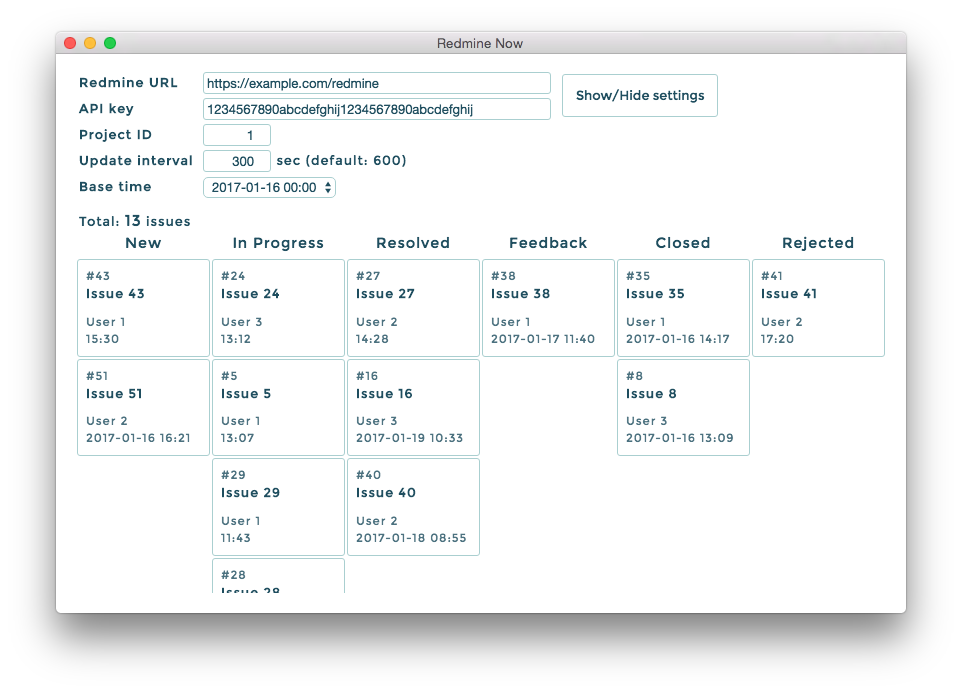
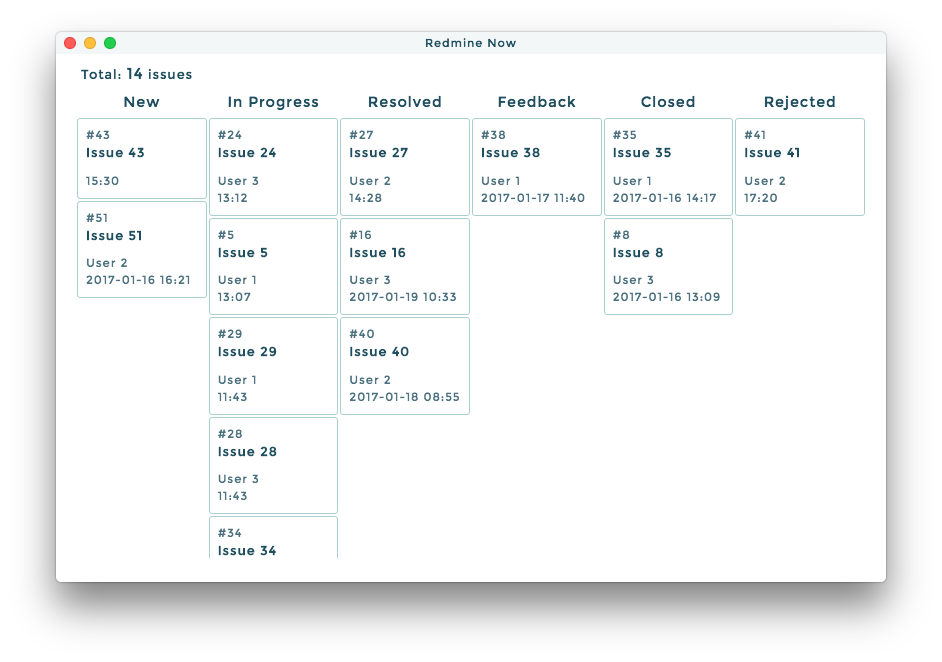
v0.3.0

diff --git a/README.md b/README.md
@@ -10,7 +10,17 @@
 
 ---
 
-![Screenshot](examples/redmine-now.png?raw=true)
+![Screenshot Main](examples/redmine-now.png?raw=true)
+
+![Screenshot Settings](examples/redmine-now-settings.png?raw=true)
+
+### Dark Mode
+
+You can toggle dark mode with <kbd>Cmd</kbd> <kbd>Shift</kbd> <kbd>D</kbd> / <kbd>Ctrl</kbd> <kbd>Shift</kbd> <kbd>D</kbd>.
+
+![Screenshot Dark Mode Main](examples/redmine-now-dark.png?raw=true)
+
+![Screenshot Dark Mode Settings](examples/redmine-now-dark-settings.png?raw=true)
 
 ## Installation
 

diff --git a/CHANGELOG.md b/CHANGELOG.md
@@ -1,5 +1,16 @@
 # Change Log
 
+## 0.3.0 (2017-01-30)
+
+* Extract settings into child window
+* Add dark mode
+* Show overlay button when `Redmine URL` or `API key` is empty
+* Add `Window` and `Redmine Now Website` to app menu
+* Change hover background color of issue elements
+* Hide spin button in text fields
+* Customize title bar on macOS
+* Update Electron to 1.4.15
+
 ## 0.2.0 (2017-01-24)
 
 * Automatically update issue list 
